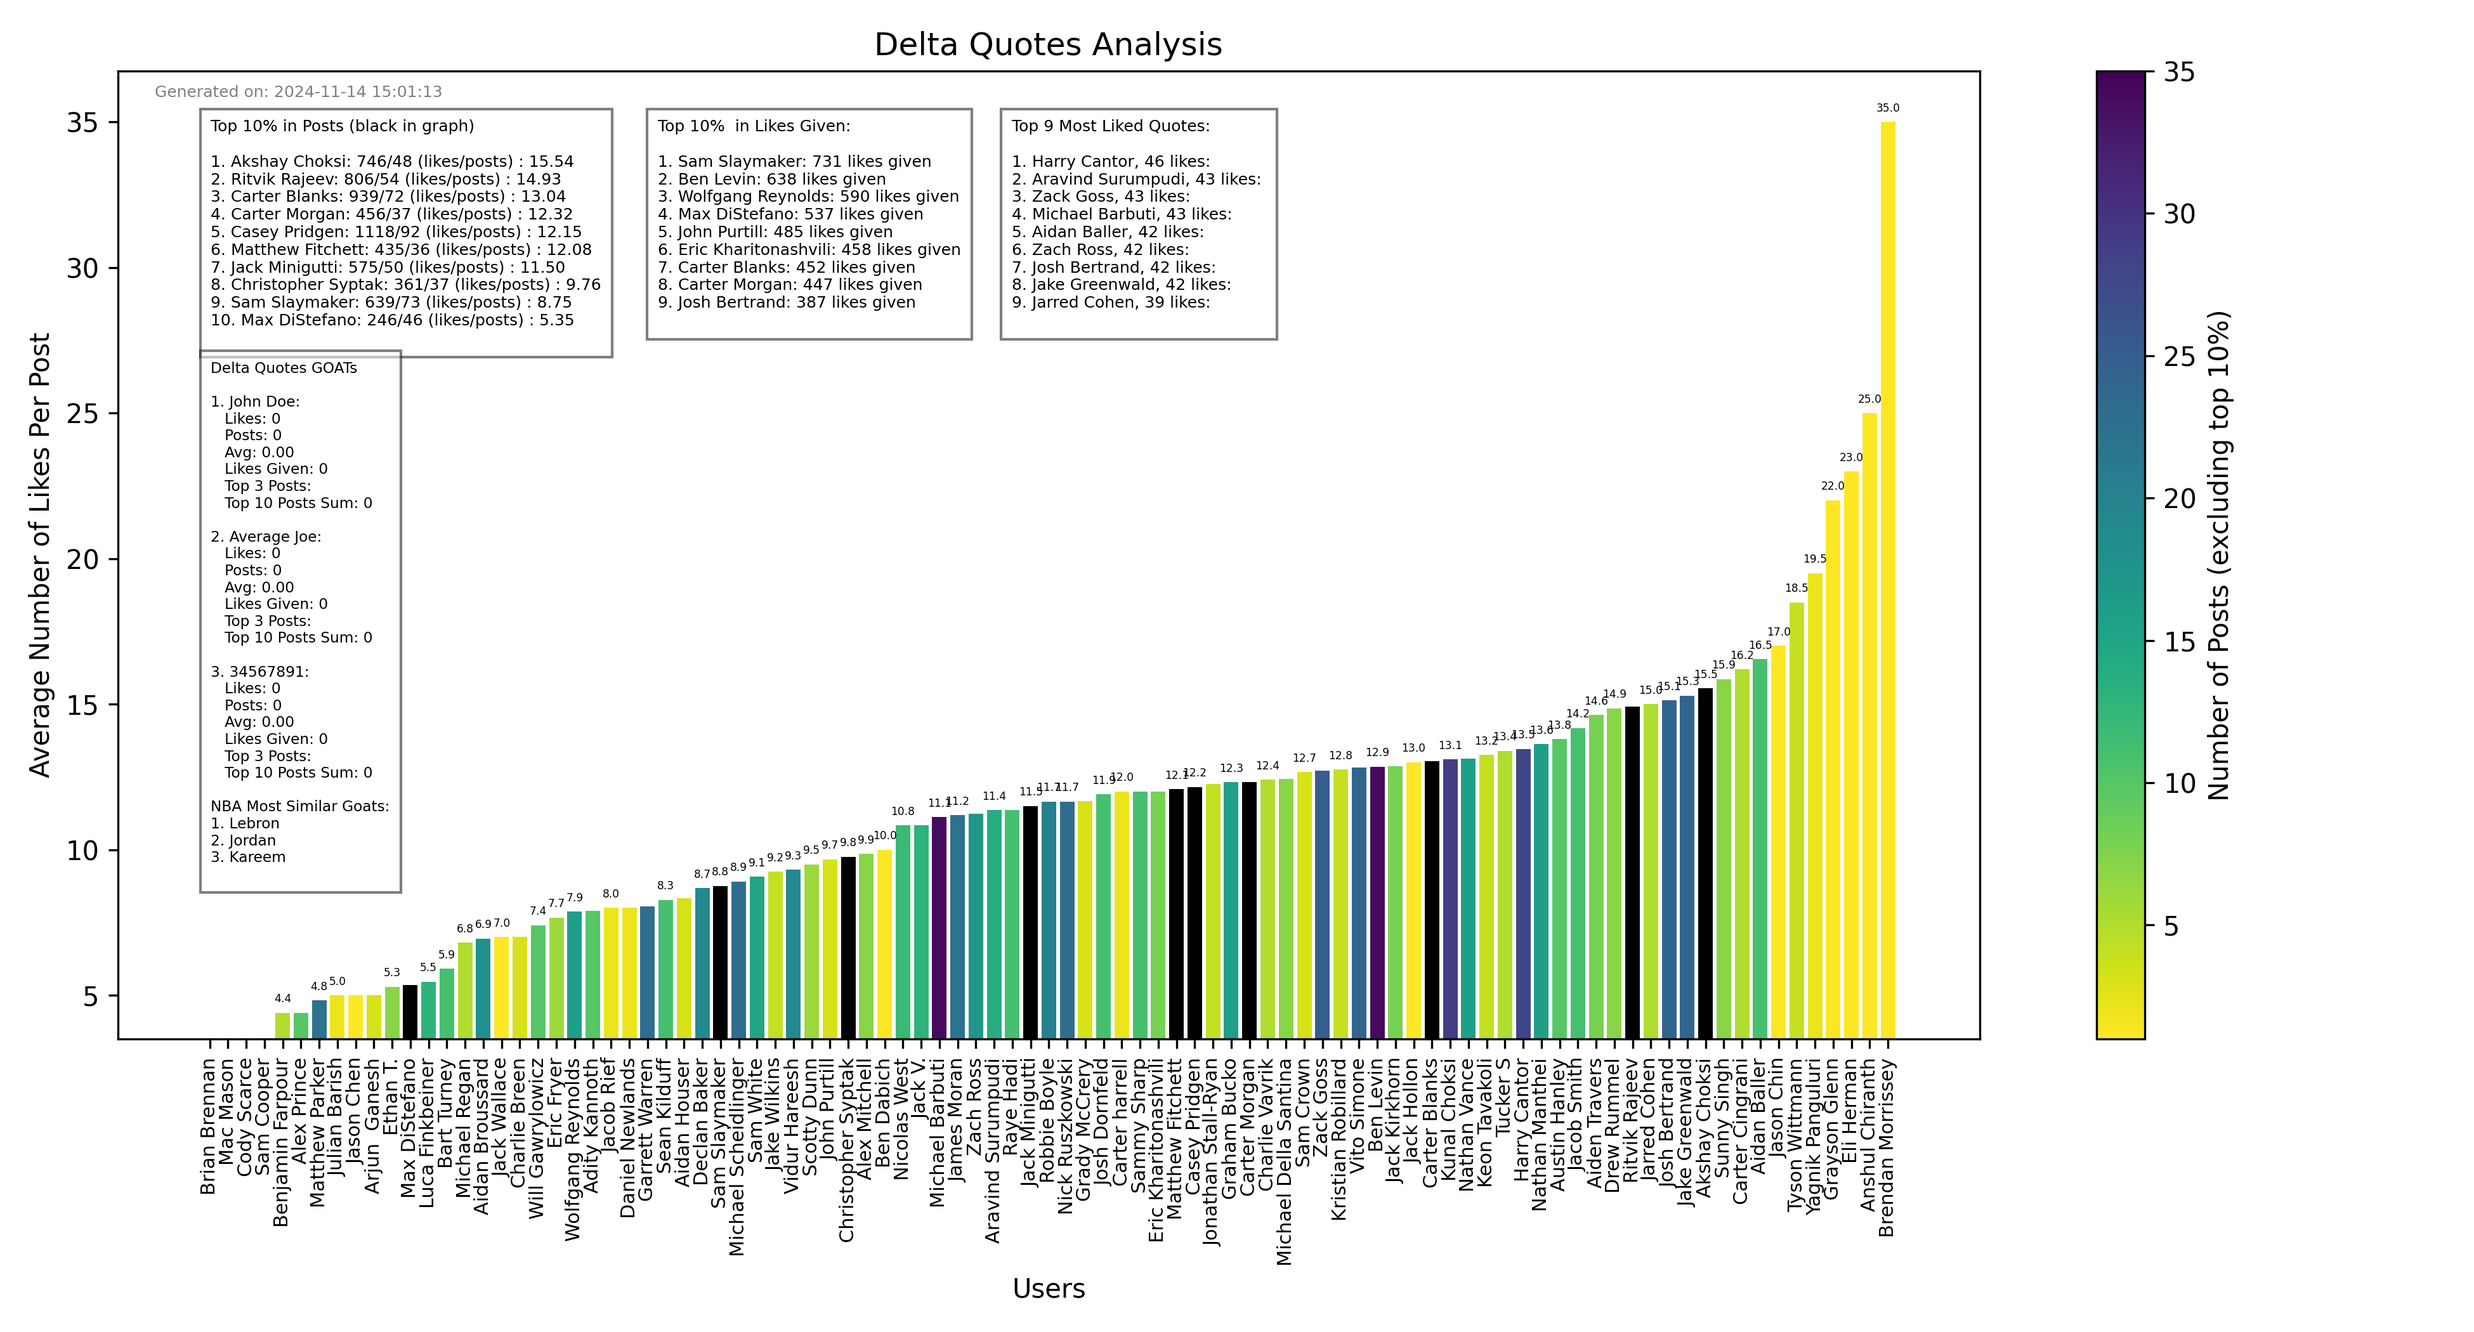
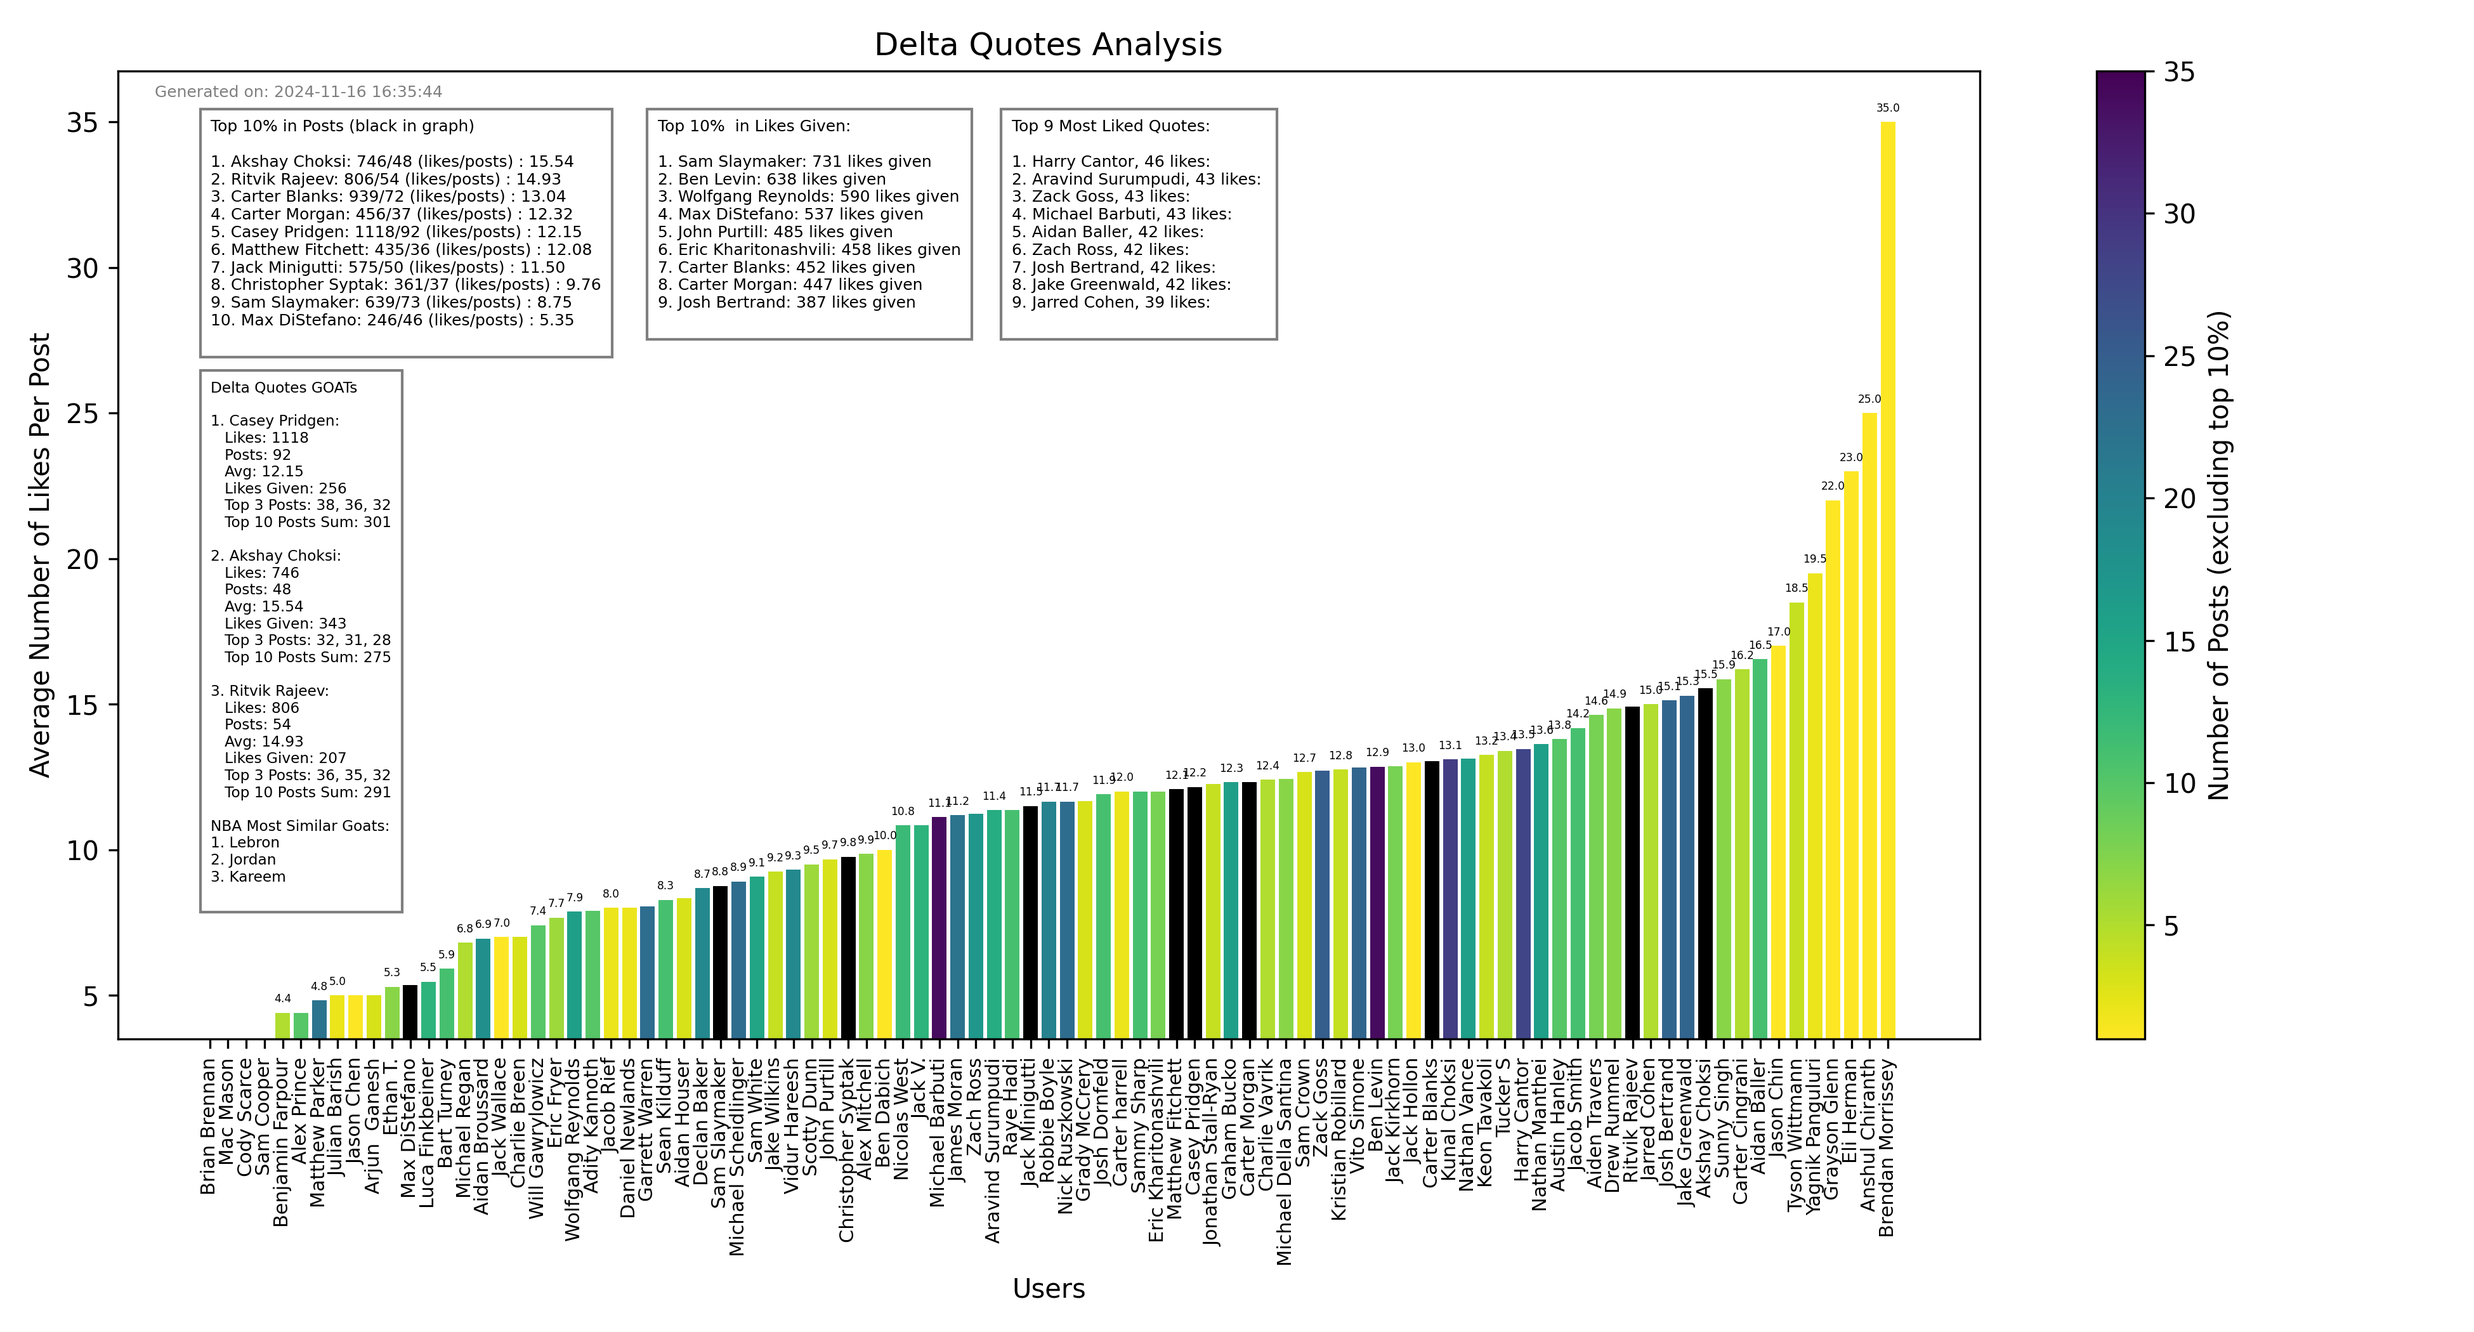
added file with hardcoded GOATs

Changed region(s): [[0.0931, 0.2476, 0.1551, 0.681]]

diff --git a/allEncompassingPlotWGoats.py b/allEncompassingPlotWGoats.py
@@ -1,0 +1,268 @@
+import json
+import numpy as np
+import matplotlib.pyplot as plt
+import matplotlib.colors as mcolors
+from datetime import datetime
+import sys
+
+def run(conversation_path, message_path):
+    # Load JSON data about the group members
+    with open(conversation_path, encoding='utf-8') as file:
+        group_data = json.load(file)
+    # Load JSON data from message.json
+    with open(message_path, encoding='utf-8') as file:
+        message_data = json.load(file)
+    # Create a mapping from user IDs to names
+    user_id_to_name = {member['user_id']: member['name'] for member in group_data['members']}
+
+    # Manually add missing user IDs and names to the user_id_to_name dictionary
+    user_id_to_name.update({
+        '12345678': 'John Doe', #example
+        '23456789': 'Average Joe', #example2
+        '94842236': 'Suhas G',
+        '58304457': 'Charlie Breen',
+        '85801105': 'Jack Kirkhorn',
+        '61294173': 'Will Gawrylowicz',
+        '22421689': 'Austin Hanley',
+        '39577603': 'Adity Kannoth',
+        '27270670': 'Alex Prince',
+        '32621779': 'Bart Turney',
+        '61977517': 'Luca Finkbeiner',
+        '34525848': 'Brian Brennan', 
+        '51279945': 'Ben Dabich'
+    })
+
+    # Initialize dictionaries
+    likes_count = {}
+    posts_count = {}
+    likes_given_count = {}
+    max_likes_received_per_user = {}
+
+    # Iterate over each message object
+    for message in message_data:
+        
+        # Skip messages sent by the system
+        if message['sender_type'] == 'system':
+            continue
+        
+        # Extract the user ID and name from the message
+        user_id = message['user_id']
+        user_name = user_id_to_name.get(user_id, user_id)  # Use user ID if name is not found
+        
+        # Extract the list of user IDs who liked this message
+        favorited_by = message.get('favorited_by', [])
+        
+        # Increment the count of likes for each user, the number of posts by each user,
+        # and the total number of likes given by each user
+        likes_count[user_id] = likes_count.get(user_id, 0) + len(favorited_by)
+        posts_count[user_id] = posts_count.get(user_id, 0) + 1
+
+        # Update max_likes_received_per_user if the current message has more likes than previous messages for the user
+        max_likes_received_per_user[user_id] = max(max_likes_received_per_user.get(user_id, 0), len(favorited_by))
+
+        for user_id in message['favorited_by']:
+            likes_given_count[user_id] = likes_given_count.get(user_id, 0) + 1
+
+    # Calculate the total number of likes received by each user
+    likes_received_count = likes_count
+
+    # Calculate the average likes per post for each user
+    average_likes_per_post = {}
+    for user_id in likes_count:
+        if user_id in posts_count and posts_count[user_id] > 0:
+            average_likes_per_post[user_id] = likes_count[user_id] / posts_count[user_id]
+        else:
+            average_likes_per_post[user_id] = 0
+
+    # Replace user IDs with names in the dictionaries
+    posts_count = {user_id_to_name.get(user_id, user_id): count for user_id, count in posts_count.items()}
+    likes_given_count = {user_id_to_name.get(user_id, user_id): count for user_id, count in likes_given_count.items()}
+    likes_received_count = {user_id_to_name.get(user_id, user_id): count for user_id, count in likes_received_count.items()}
+    average_likes_per_post = {user_id_to_name.get(user_id, user_id): count for user_id, count in average_likes_per_post.items()}
+
+    # Sort the dictionaries by values
+    sorted_max_likes = dict(sorted(max_likes_received_per_user.items(), key=lambda item: item[1], reverse=True))
+    sorted_posts_count = dict(sorted(posts_count.items(), key=lambda item: item[1]))
+    sorted_likes_given_count = dict(sorted(likes_given_count.items(), key=lambda item: item[1]))
+    sorted_likes_received_count = dict(sorted(likes_received_count.items(), key=lambda item: item[1]))
+    sorted_average_likes_per_post = dict(sorted(average_likes_per_post.items(), key=lambda item: item[1]))
+
+    # Remove users with ratio less than 1
+    sorted_average_likes_per_post_filtered = {user: avg_likes for user, avg_likes in sorted_average_likes_per_post.items() if avg_likes >= 1}
+
+    # Define a colormap for lower 90% of users
+    min_posts_90 = min(sorted_posts_count.values())  # Minimum value for the lower 90%
+    max_posts_90 = np.percentile(list(sorted_posts_count.values()), 90)  # 90th percentile for the lower 90%
+    norm_90 = mcolors.Normalize(vmin=min_posts_90, vmax=max_posts_90)
+    cmap_90 = plt.colormaps.get_cmap('viridis_r')
+
+    # Plot the bar graph
+    plt.figure(figsize=(13, 7))
+
+    # Plot bars with colors based on total number of posts for the lower 90%
+    bars = []
+    for user, posts in sorted_average_likes_per_post_filtered.items():
+        if sorted_posts_count[user] <= max_posts_90:
+            color = cmap_90(norm_90(sorted_posts_count[user]))  # Use the normalized value for the lower 90%
+        else:
+            color = 'black'  # Assign a distinct color for top 10% of users
+        bars.append(plt.bar(user, posts, color=color))
+
+    # Create a colorbar for the lower 90%
+    sm = plt.cm.ScalarMappable(cmap=cmap_90, norm=norm_90)
+    sm.set_array([])
+    plt.colorbar(sm, ax=plt.gca(), label='Number of Posts (excluding top 10%)')
+
+    # Identify top 10% users by total number of posts
+    top_users = {user: posts_count[user] for user in sorted_posts_count if posts_count[user] > max_posts_90}
+
+    # Sort the top users by number of posts
+    sorted_top_users = dict(sorted(top_users.items(), key=lambda item: item[1], reverse=True))
+
+    # Calculate average likes per post for the top users
+    average_likes_per_post_top_users = {user: average_likes_per_post[user] for user in sorted_top_users}
+
+    # Sort the top users by average likes per post
+    sorted_top_users_by_likes = dict(sorted(average_likes_per_post_top_users.items(), key=lambda item: item[1], reverse=True))
+
+    # Prepare the text for the box including average likes per post and ranking
+    box_text = "Top 10% in Posts (black in graph)\n\n"
+    rank = 1
+    for user, likes_per_post in sorted_top_users_by_likes.items():
+        posts = sorted_top_users[user]
+        likes_received = likes_received_count[user]
+        box_text += f"{rank}. {user}: {likes_received}/{posts} (likes/posts) : {likes_per_post:.2f}\n"
+        rank += 1
+
+    # Prepare the text for the box including top 5 users in terms of likes given
+    top_5_likes_given = sorted(likes_given_count.items(), key=lambda x: x[1], reverse=True)[:9]
+    box_text_top_5_likes_given = "Top 10%  in Likes Given:\n\n"
+    for rank, (user, likes_given) in enumerate(top_5_likes_given, start=1):
+        box_text_top_5_likes_given += f"{rank}. {user}: {likes_given} likes given\n"
+
+    # Prepare the text for the box including top 9 quotes (most liked) and their users
+    top_5_quotes = list(sorted_max_likes.items())[:9]
+    box_text_top_5_quotes = "Top 9 Most Liked Quotes:\n\n"
+    for rank, (user_id, max_likes) in enumerate(top_5_quotes, start=1):
+        user_name = user_id_to_name.get(user_id, user_id)
+        box_text_top_5_quotes += f"{rank}. {user_name}, {max_likes} likes: \n"
+
+
+    # Initialize dictionaries to store new metrics
+    top_10_likes_sum = {}
+
+    # Iterate over each user
+    for user_id in user_id_to_name.keys():
+        user_name = user_id_to_name[user_id]
+        
+        # Get all messages sent by the user (excluding system messages)
+        user_messages = [message for message in message_data if message['user_id'] == user_id and message['sender_type'] != 'system']
+        # Sort the messages based on the number of likes
+        sorted_messages = sorted(user_messages, key=lambda x: len(x.get('favorited_by', [])), reverse=True)
+        # Sum up the likes for the top 10 posts  
+        top_10_likes_sum[user_name] = sum(len(message.get('favorited_by', [])) for message in sorted_messages[:10])
+
+    #GOAT
+    # Define the user IDs of the selected users. Manually select the top three, or however many you want, you think deserve to be in the GOAT conversation
+    selected_users = ['44456328', '42008056', '41813875']
+    
+    # Initialize the GOAT box text
+    goat_box_text = "Delta Quotes GOATs\n\n"
+
+    # Iterate over each selected user
+    for rank, user_id in enumerate(selected_users, start=1):
+        user_name = user_id_to_name.get(user_id, user_id)
+        
+        # Total number of posts
+        total_posts = posts_count[user_name] if user_name in posts_count else 0
+        
+        # Total number of received likes
+        total_likes_received = likes_received_count[user_name] if user_name in likes_received_count else 0
+        
+        # Average likes per post
+        avg_likes_per_post = average_likes_per_post[user_name] if user_name in average_likes_per_post else 0
+        
+        # Total number of likes given
+        total_likes_given = likes_given_count[user_name] if user_name in likes_given_count else 0
+        
+        # Likes from top 10 posts
+        top_10_likes = top_10_likes_sum[user_name] if user_name in top_10_likes_sum else 0
+            
+        # Get the number of likes on each of their best 5 posts
+        user_best_posts_likes = []
+        user_messages = [message for message in message_data if message['user_id'] == user_id and message['sender_type'] != 'system']
+        user_best_posts = sorted(user_messages, key=lambda x: len(x.get('favorited_by', [])), reverse=True)[:3]
+        for post in user_best_posts:
+            user_best_posts_likes.append(len(post.get('favorited_by', [])))
+
+        # Add user metrics to the GOAT box text
+        goat_box_text += f"{rank}. {user_name}:\n"
+        goat_box_text += f"   Likes: {total_likes_received}\n"
+        goat_box_text += f"   Posts: {total_posts}\n"
+        goat_box_text += f"   Avg: {avg_likes_per_post:.2f}\n"
+        goat_box_text += f"   Likes Given: {total_likes_given}\n"
+        goat_box_text += f"   Top 3 Posts: {', '.join(map(str, user_best_posts_likes))}\n"
+        goat_box_text += f"   Top 10 Posts Sum: {top_10_likes}\n\n"
+    goat_box_text += "NBA Most Similar Goats:\n"  #Used chatGPT to list a few similar NBA Goats and I chose from there
+    goat_box_text += "1. Lebron \n"
+    goat_box_text += "2. Jordan \n"
+    goat_box_text += "3. Kareem \n"
+
+    # Add the box with text to the plot
+    plt.text(0.05, 0.95, box_text, transform=plt.gca().transAxes, fontsize=6,
+            verticalalignment='top', bbox=dict(facecolor='white', alpha=0.5, edgecolor='black'))
+
+    plt.text(.29, 0.95, box_text_top_5_likes_given, transform=plt.gca().transAxes, fontsize=6, 
+            verticalalignment='top', bbox=dict(facecolor='white', alpha=0.5, edgecolor='black'))
+
+    # Add the box with text for top 5 quotes to the plot
+    plt.text(0.48, .95, box_text_top_5_quotes, transform=plt.gca().transAxes, fontsize=6, 
+            verticalalignment='top', bbox=dict(facecolor='white', alpha=0.5, edgecolor='black'))
+
+    # Add the GOAT conversation box to the plot
+    plt.text(0.05, .68, goat_box_text, transform=plt.gca().transAxes, fontsize=5.6, 
+            verticalalignment='top', bbox=dict(facecolor='white', alpha=0.5, edgecolor='black'))
+
+    # Add labels to bars
+    def autolabel(bars):
+        labeled_heights = {}  # To store labeled heights
+        for bar in bars:
+            for rect in bar:
+                height = rect.get_height()
+                rounded_height = round(height, 1)  # Round the height to one decimal place
+                if rounded_height not in labeled_heights:  # Check if rounded height has been labeled already
+                    labeled_heights[rounded_height] = True
+                    plt.annotate('{:.1f}'.format(height),  
+                                xy=(rect.get_x() + rect.get_width() / 2, height),
+                                xytext=(0, 3),  # 3 points vertical offset
+                                textcoords="offset points",
+                                ha='center', va='bottom', fontsize=4.1
+                                )
+    autolabel(bars)
+    plt.xlabel('Users')
+    plt.ylabel('Average Number of Likes Per Post')
+    plt.title('Delta Quotes Analysis')
+    plt.ylim(3.5, None) # Set the lower limit of the vertical axis
+    plt.xticks(ticks=np.arange(len(sorted_average_likes_per_post_filtered)), labels=sorted_average_likes_per_post_filtered.keys(), rotation=90, ha='center', fontsize=7.3)
+    plt.tight_layout()
+    timestamp = datetime.now().strftime('%Y-%m-%d %H:%M:%S')
+    plt.text(0.02, 0.97, f"Generated on: {timestamp}", transform=plt.gca().transAxes, fontsize=6, color='gray', ha='left', va='bottom')
+    plt.savefig('DeltaQuotesVisualized.png', dpi=300) 
+
+    plt.show()
+
+if __name__ == "__main__":
+    if len(sys.argv) != 3:
+        print("Usage: python allEncompassingPlot.py <conversation_path> <message_path>")
+    else:
+        run(sys.argv[1], sys.argv[2])
+
+"""
+# Print the top 5 users' most liked posts and the user who posted them
+print("Top 5 Users' Most Liked Posts:")
+for rank, (user_id, max_likes) in enumerate(sorted_max_likes.items(), start=1):
+    if rank > 40:
+        break
+    user_name = user_id_to_name.get(user_id, user_id)
+    print(f"{rank}. User: {user_name}, Number of Likes: {max_likes}")
+    """

diff --git a/main.py b/main.py
@@ -33,7 +33,7 @@ def run_plot():
     plot_type = plot_selection.get()
     if plot_type:
         if plot_type == "All Encompassing Plot":
-            subprocess.run(['python', 'allEncompassingPlot.py', conversation_path, message_path])
+            subprocess.run(['python', 'allEncompassingPlotWGoats.py', conversation_path, message_path])
         elif plot_type == "Average Likes Per Post":
             subprocess.run(['python', 'avgLikesPerPostPlot.py', conversation_path, message_path])
         elif plot_type == "Specific Stats":

diff --git a/allEncompassingPlot.py b/allEncompassingPlot.py
@@ -220,7 +220,7 @@ def run(conversation_path, message_path):
             verticalalignment='top', bbox=dict(facecolor='white', alpha=0.5, edgecolor='black'))
 
     # Add the GOAT conversation box to the plot
-    plt.text(0.05, .7, goat_box_text, transform=plt.gca().transAxes, fontsize=5.6, 
+    plt.text(0.05, .68, goat_box_text, transform=plt.gca().transAxes, fontsize=5.6, 
             verticalalignment='top', bbox=dict(facecolor='white', alpha=0.5, edgecolor='black'))
 
     # Add labels to bars
